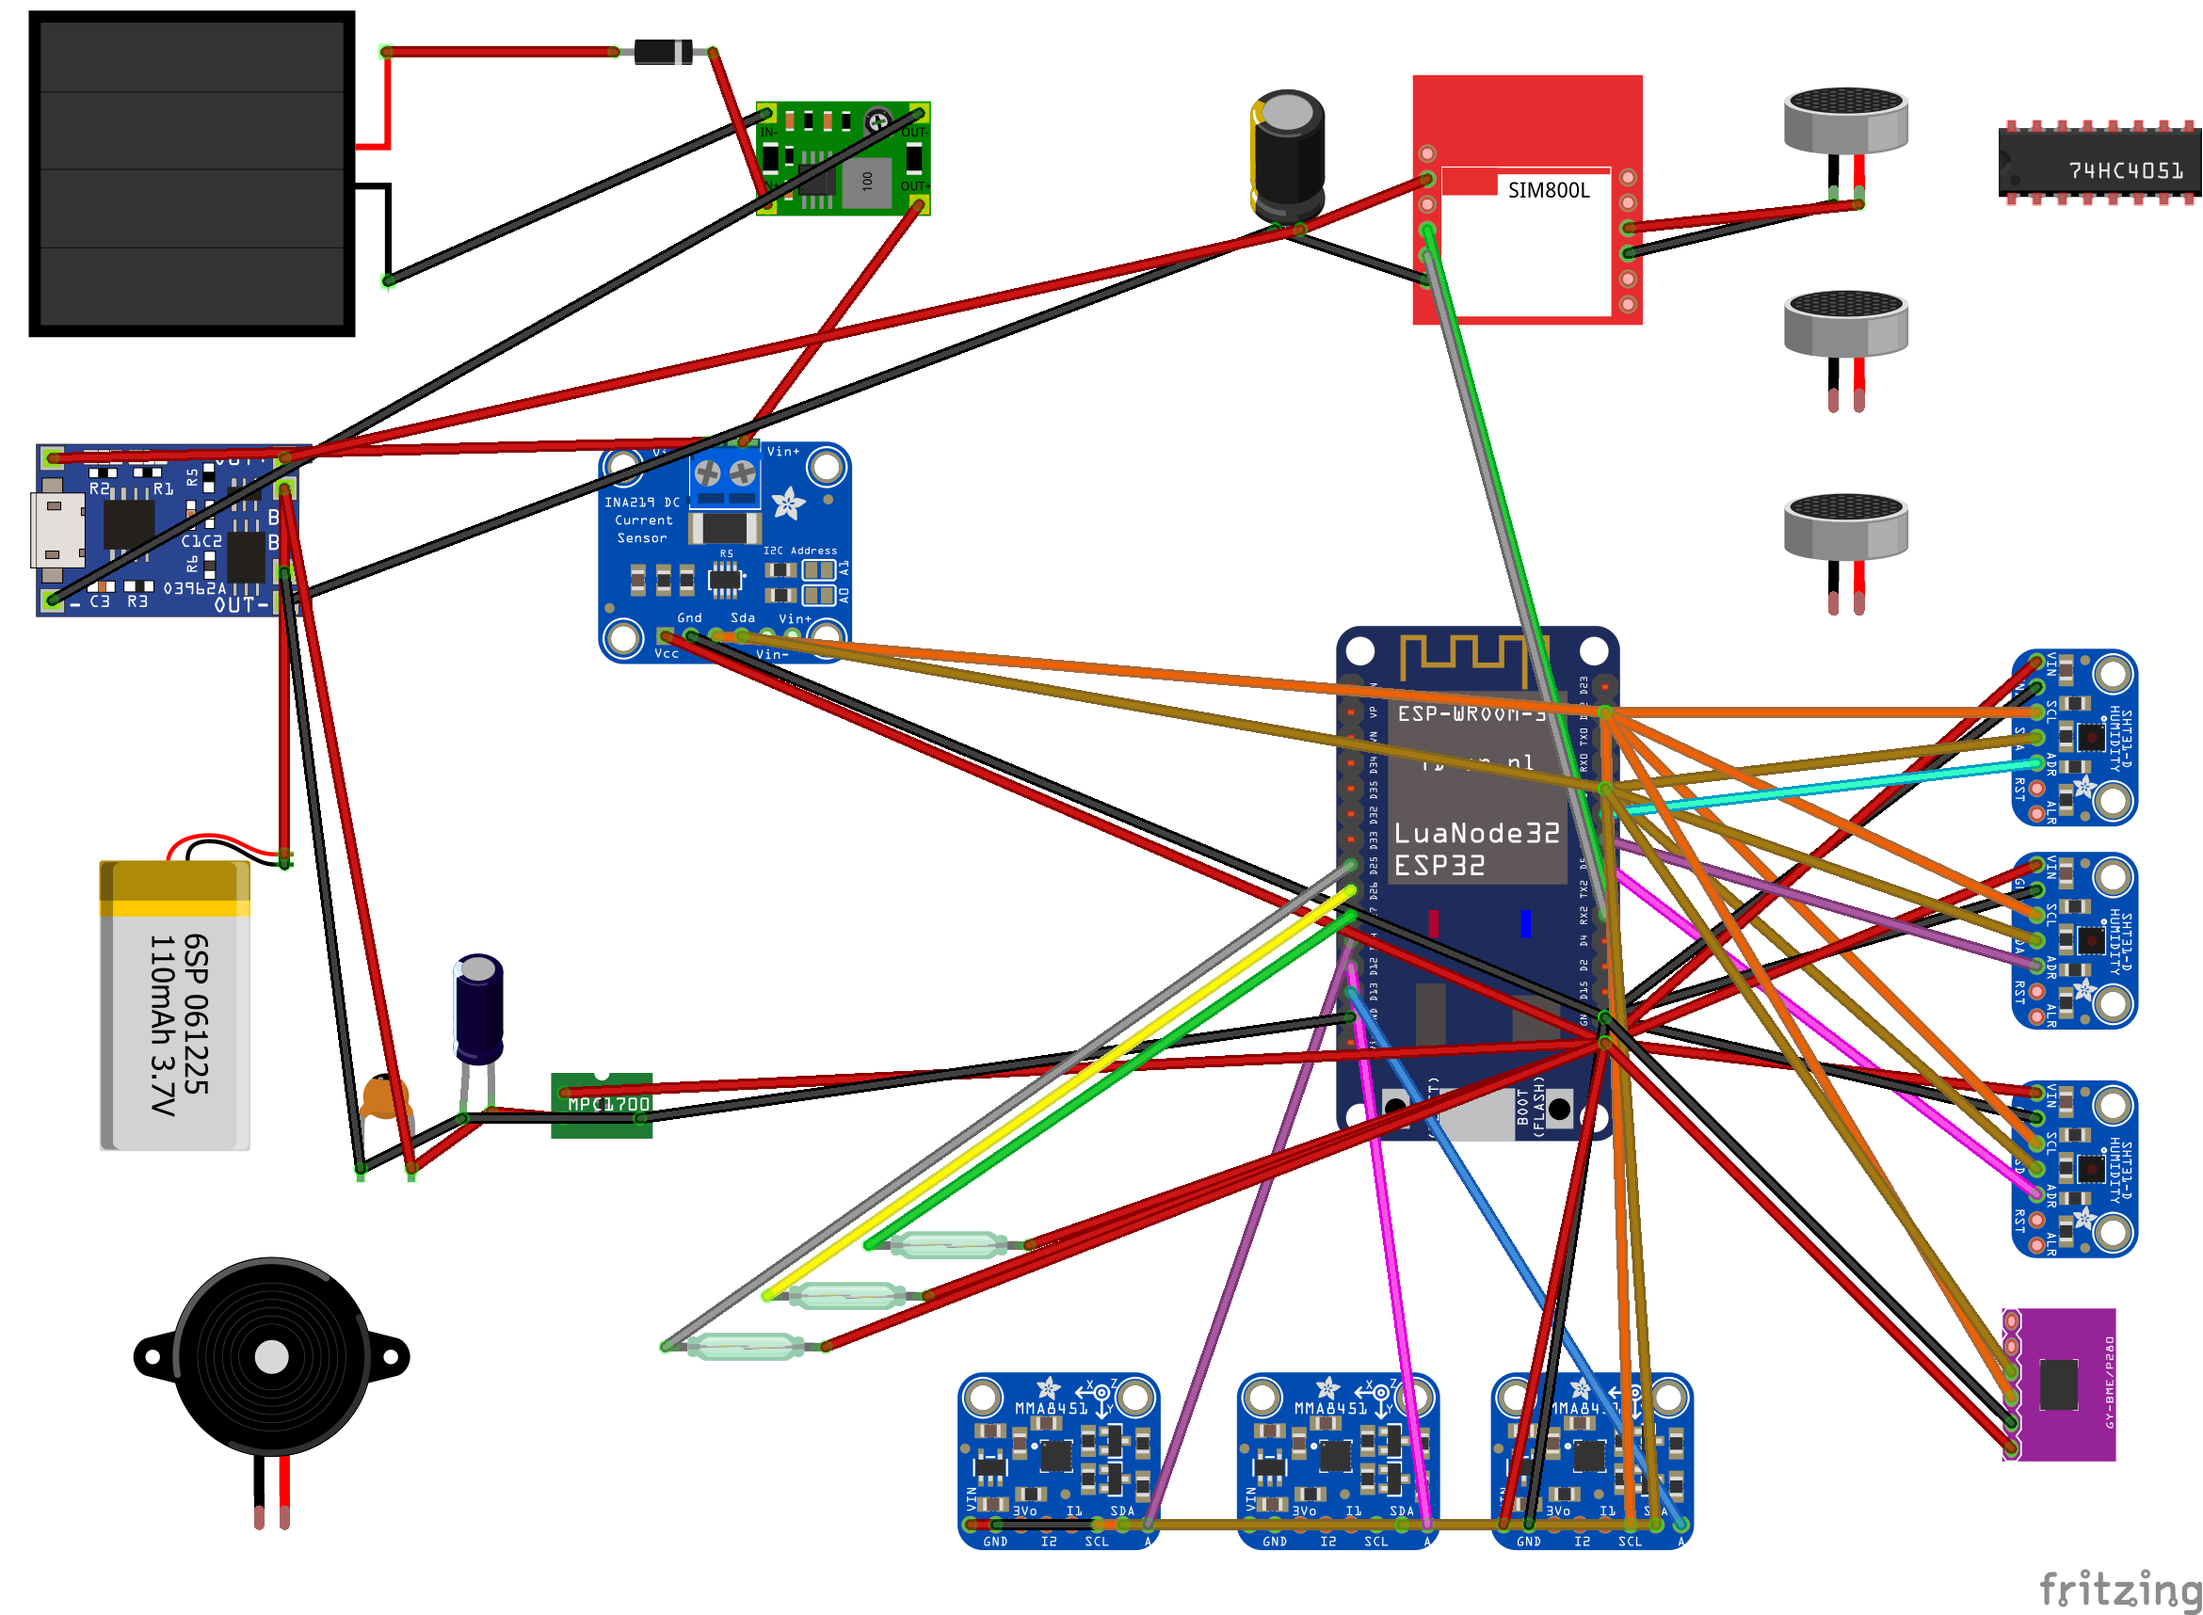
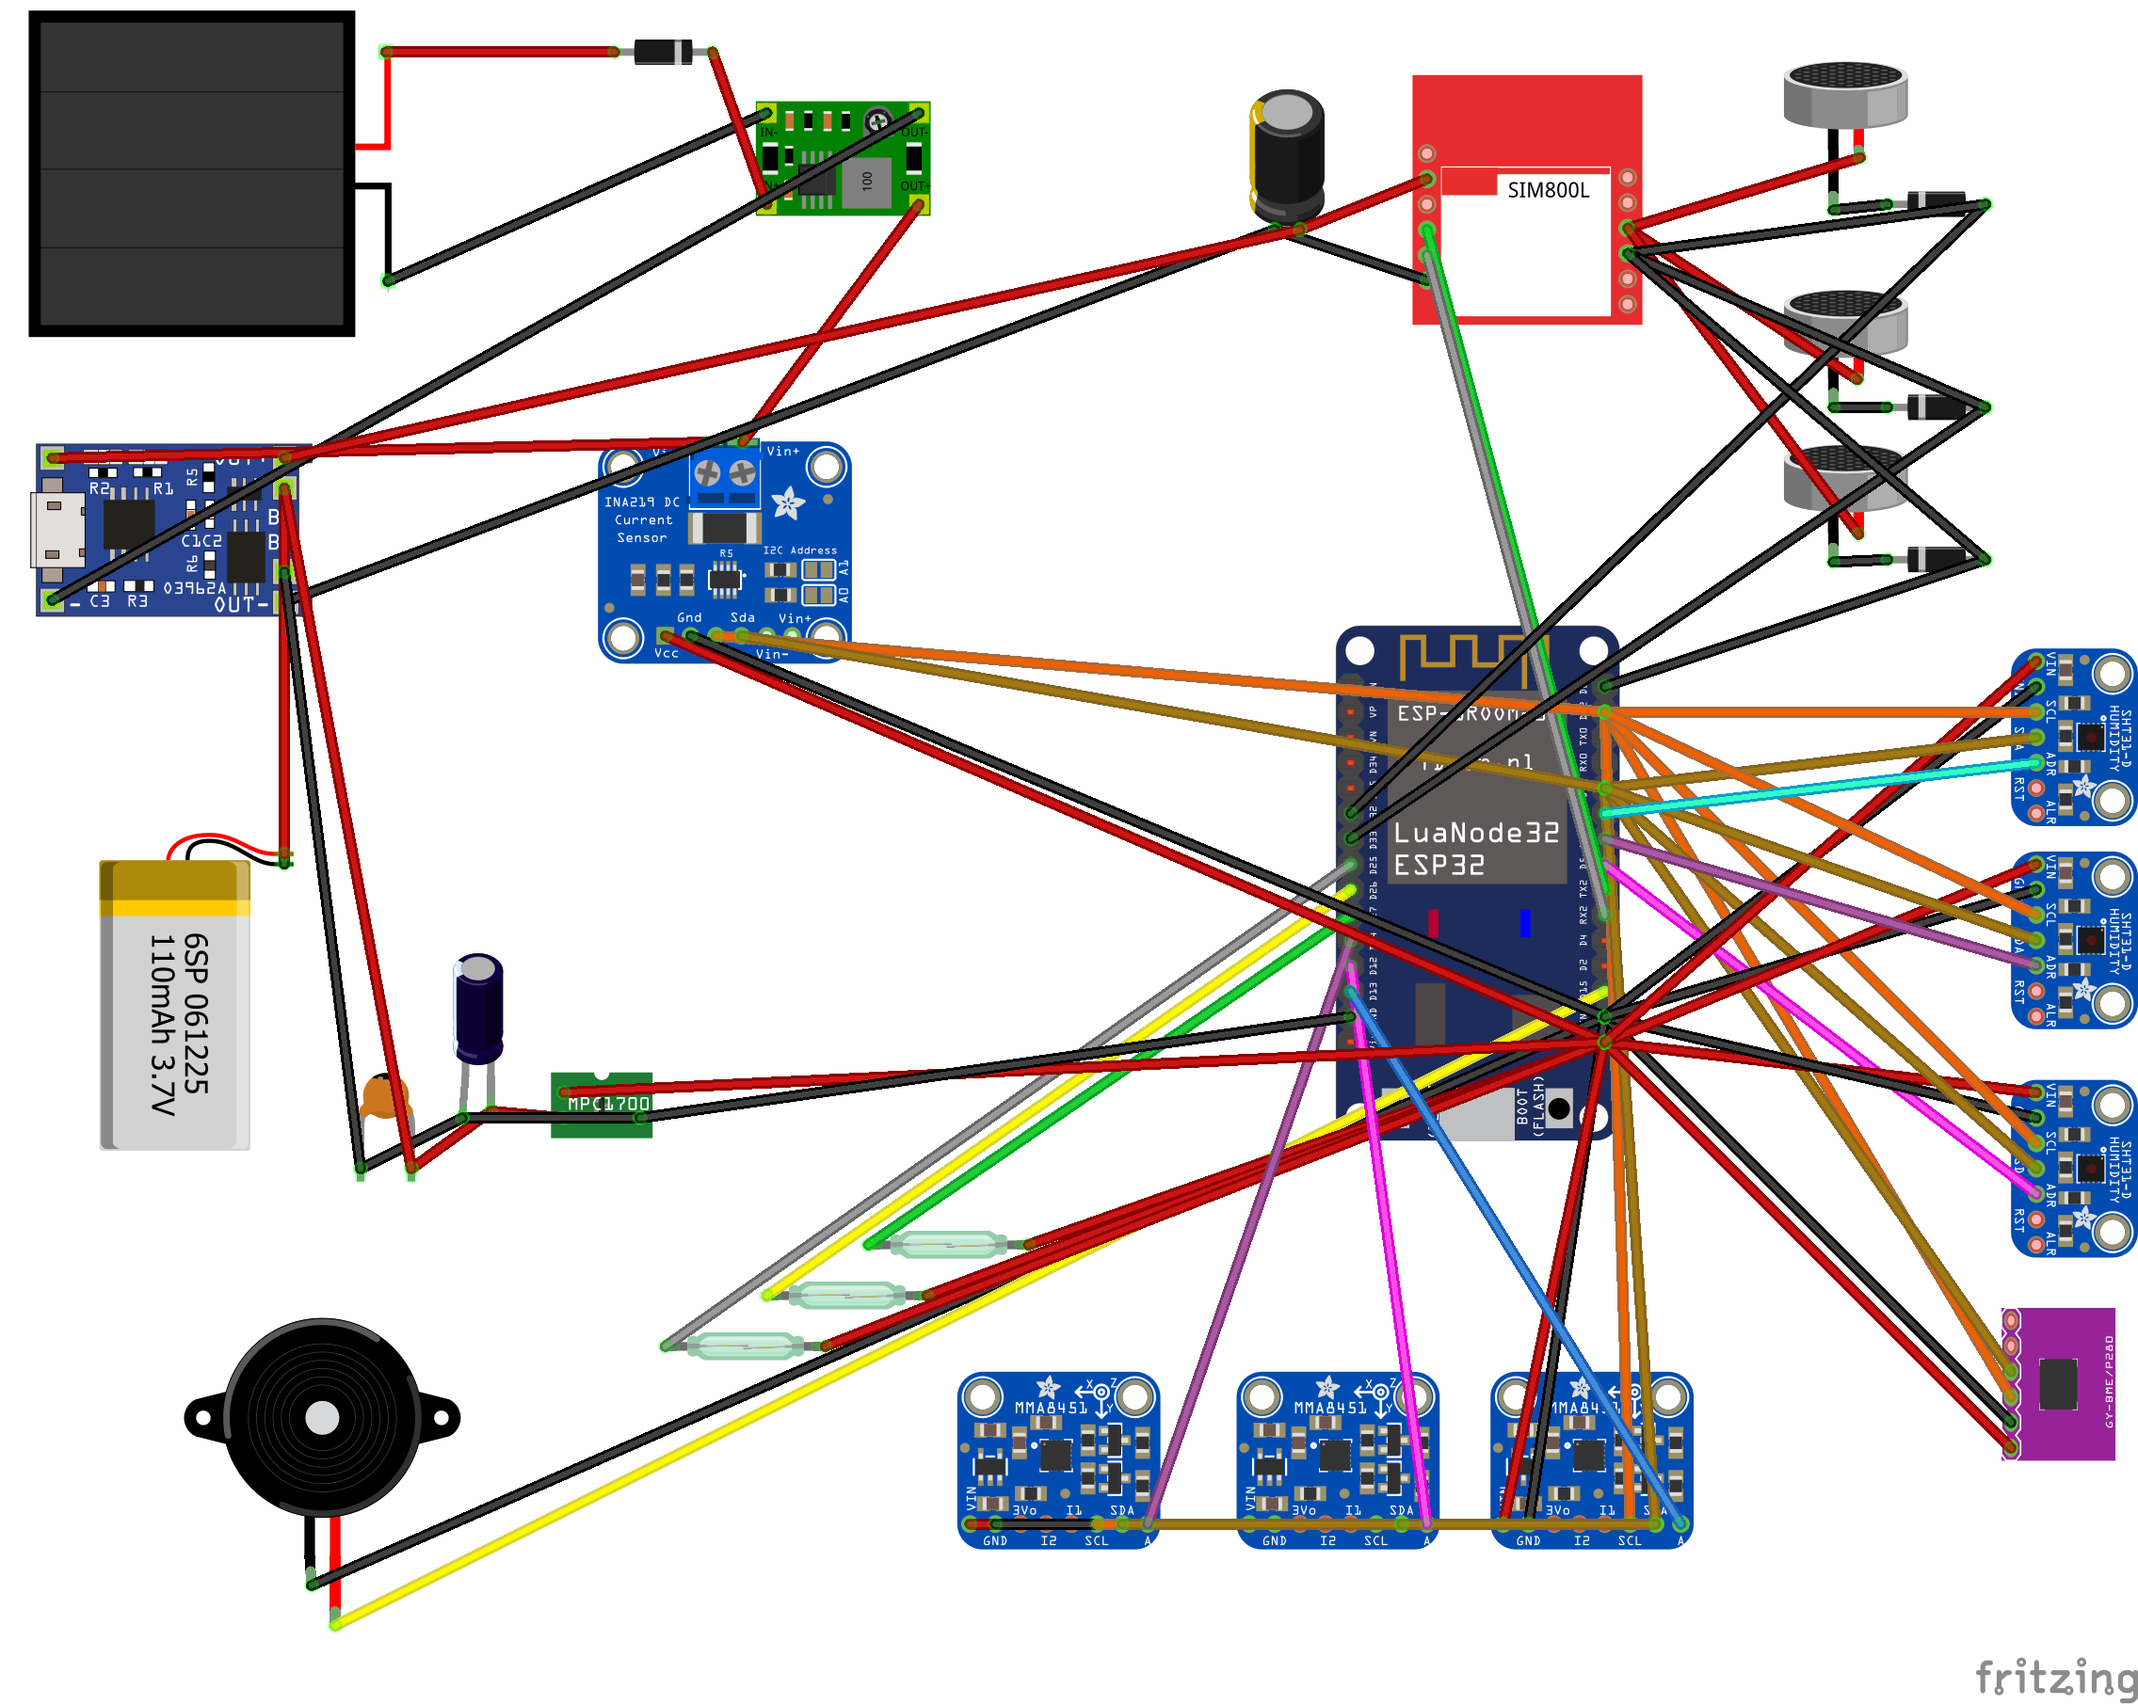
Incoming call - 3 microphones changin logic

diff --git a/lib/InternetConnection/InternetConnection.cpp b/lib/InternetConnection/InternetConnection.cpp
@@ -69,6 +69,11 @@ BLYNK_WRITE(V0)
 
 void InternetConnection::initialize()
 {
+    // setup microphone turn off/on pins
+    pinMode(MICROPHONE_A_PIN, OUTPUT);
+    pinMode(MICROPHONE_B_PIN, OUTPUT);
+    pinMode(MICROPHONE_C_PIN, OUTPUT);
+
     // Set GSM module baud rate
     gsmSerial.begin(115200, SERIAL_8N1, 16, 17, false);
     // TODO: sleep/wake upp https://www.raviyp.com/embedded/223-sim900-sim800-sleep-mode-at-commands
@@ -100,12 +105,36 @@ void InternetConnection::checkIncomingCall()
         if (modem.callAnswer())
         {
             Serial.println("*** INCOMING CALL ***");
+            processIncomingCall();
         }
     }
     else
     {
         restartModem();
     }
+}
+
+void InternetConnection::processIncomingCall()
+{
+    Serial.println("Microphone A on");
+    digitalWrite(MICROPHONE_A_PIN, HIGH);
+    delay(5000);
+    digitalWrite(MICROPHONE_A_PIN, LOW);
+    delay(1000);
+
+    Serial.println("Microphone B on");
+    digitalWrite(MICROPHONE_B_PIN, HIGH);
+    delay(5000);
+    digitalWrite(MICROPHONE_B_PIN, LOW);
+    delay(1000);
+
+    Serial.println("Microphone C on");
+    digitalWrite(MICROPHONE_C_PIN, HIGH);
+    delay(5000);
+    digitalWrite(MICROPHONE_C_PIN, LOW);
+
+    Serial.println("*** BYE BYE ***");
+    modem.callHangup();
 }
 
 bool InternetConnection::initializeConnection()

diff --git a/src/main.cpp b/src/main.cpp
@@ -78,11 +78,11 @@ void sendDataToInternet()
 void checkGyroscopeAlarm()
 {
   gyroscopeController.setData();
-  // TODO: alarm...connect to GPRS, send notification, run buzzer sound etc..
+  // TODO: alarm -> connect to GPRS, send notification, run buzzer sound etc..
 }
 
 void checkMagneticLockAlarm()
 {
-  // magneticLockController.setData();
-  // TODO: alarm...connect to GPRS, send notification, run buzzer sound etc..
+  //magneticLockController.setData();
+  // TODO: alarm -> connect to GPRS, send notification, run buzzer sound etc..
 }

diff --git a/lib/InternetConnection/InternetConnection.h b/lib/InternetConnection/InternetConnection.h
@@ -4,6 +4,11 @@
 // SIM800L chip
 #define TINY_GSM_MODEM_SIM800
 
+// microphones turn off/on pins
+#define MICROPHONE_A_PIN 23
+#define MICROPHONE_B_PIN 32
+#define MICROPHONE_C_PIN 33
+
 #include <TinyGsmClient.h>
 #include <MeteoData.h>
 #include <PowerController.h>
@@ -23,6 +28,7 @@ public:
 private:
   void restartModem();
   void getSignalQualityDescription(int, int);
+  void processIncomingCall();
 };
 
 #endif
